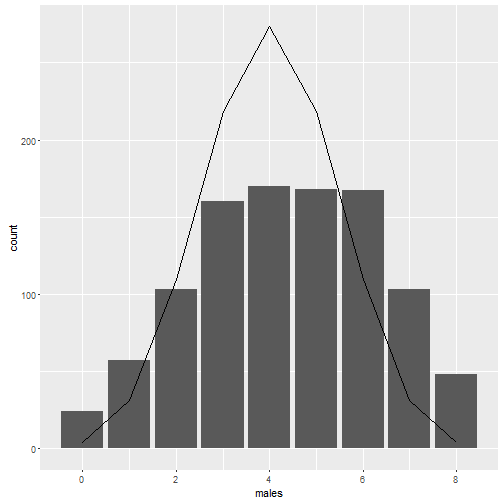
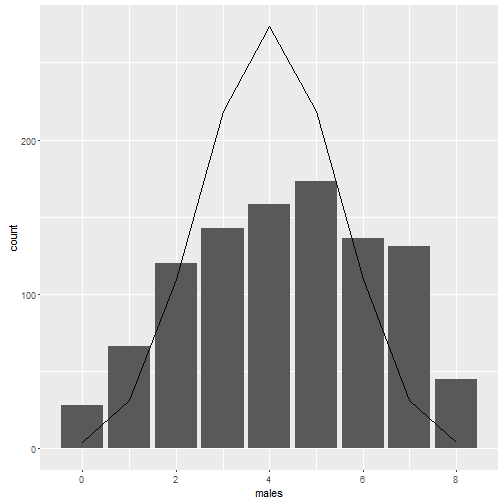
3rd attempt at getting the figure right

diff --git a/_posts/2016-04-26-the-sex-ratio-of-chickens.md b/_posts/2016-04-26-the-sex-ratio-of-chickens.md
@@ -1,7 +1,7 @@
 ---
 layout: post
 title:  The sex ratio of chickens
-date: 2016-04-26 14:37:36
+date: 2016-04-26 16:30:12
 published: true
 tags: [R, Outreach, Simulation, Mixed Models]
 ---
@@ -220,9 +220,9 @@ gg <- ggplot(as.data.frame(males),aes(x=males)) + geom_bar() + geom_line(data=bi
 gg
 {% endhighlight %}
 
-![plot of chunk simulate](figure/the-sex-ratio-of-chickens/simulate-1.png) 
+![plot of chunk simulate](2016/04/26/figure/the-sex-ratio-of-chickens/simulate-1.png) 
 
-So by including the between hen variation we end up with 34 % of orders having more than 4 females. This is about the same as without the between individual variation. However, there is a greater chance of getting 1 or 0 hens (7 or 8 males) in the order.
+So by including the between hen variation we end up with 35 % of orders having more than 4 females. This is about the same as without the between individual variation. However, there is a greater chance of getting 1 or 0 hens (7 or 8 males) in the order.
 
 Not sure what the takehome is here. Randomness is two faced?
 
